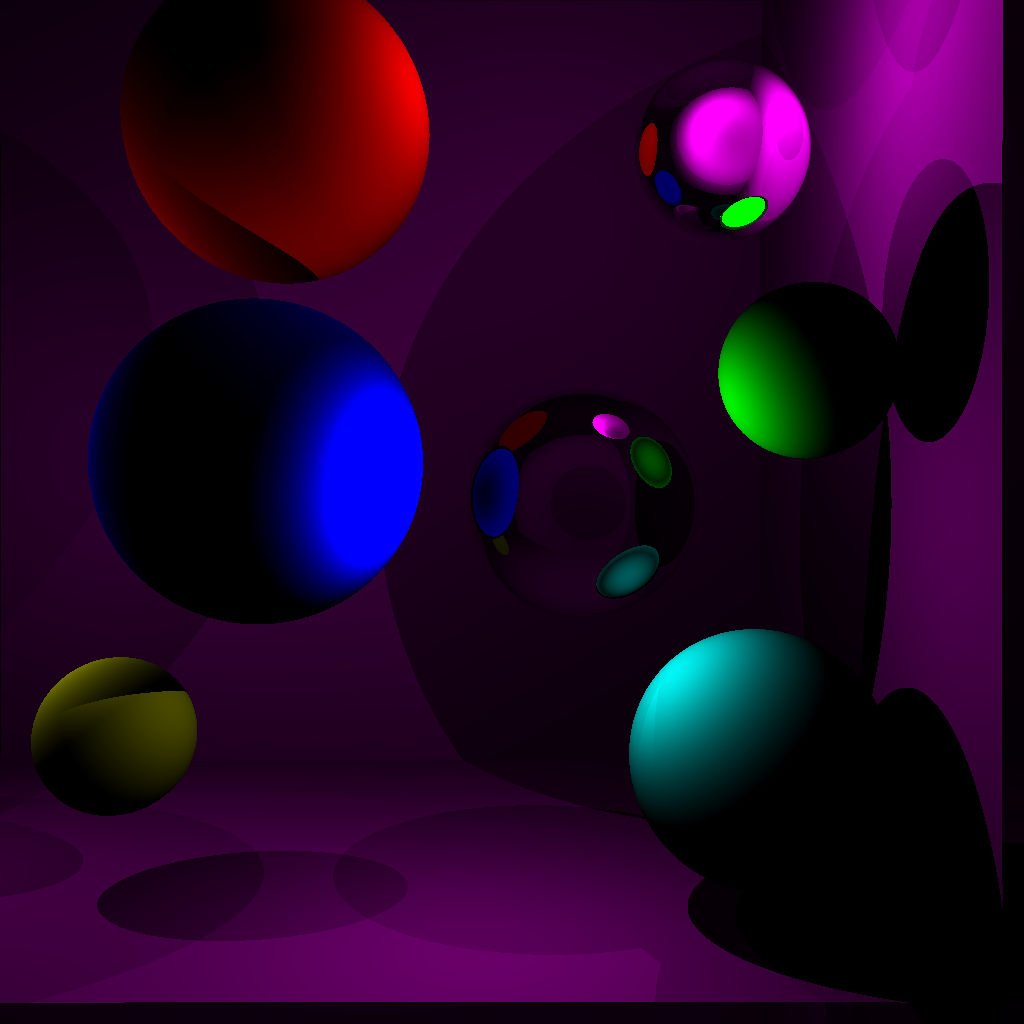
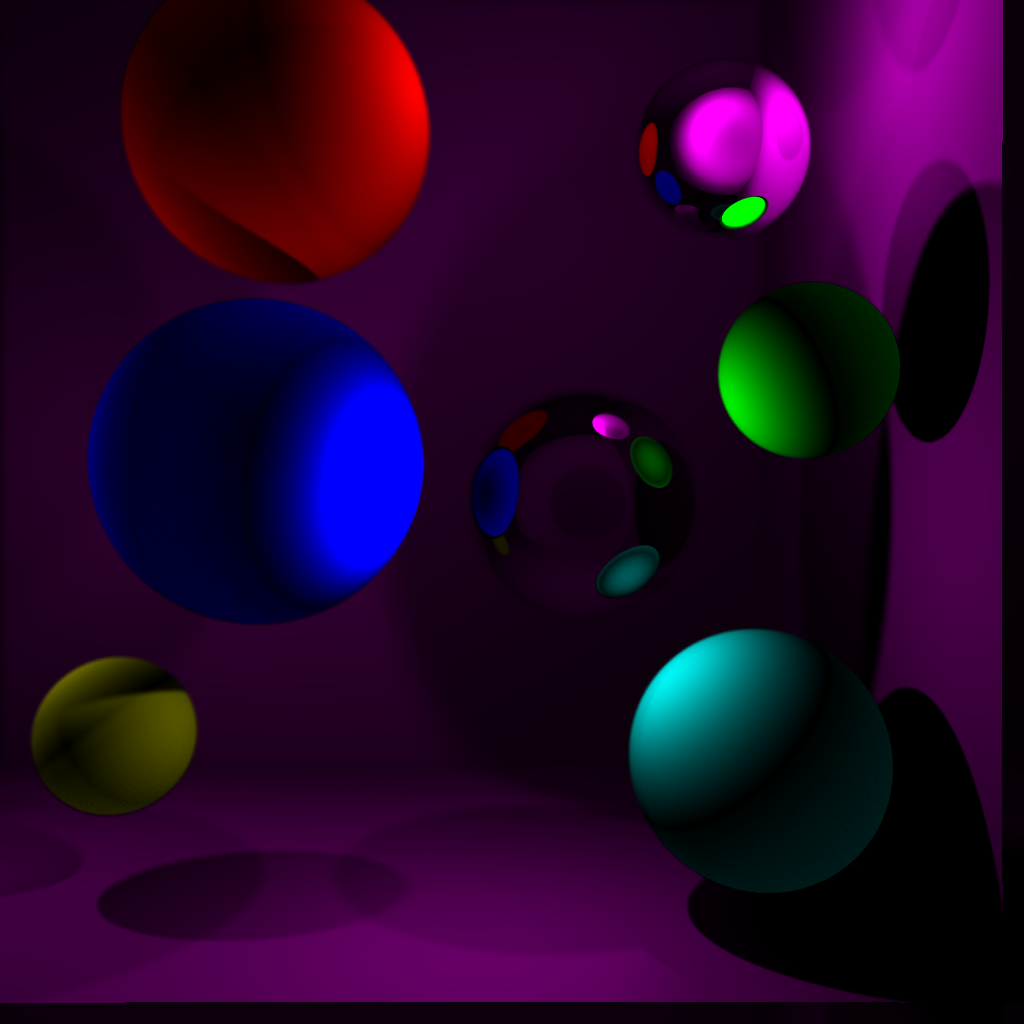
Nouvelle génération de float aléatoire
Utilisation d'uniform_real_distribution

diff --git a/SyntheseTP2/SyntheseTP2/Main.cpp b/SyntheseTP2/SyntheseTP2/Main.cpp
@@ -6,12 +6,13 @@
 #include <math.h>
 #include <iostream>
 #include <random>
-#include <ctime>
 
 #define PI 3.141593
 #define EPSILON -0.02
 
 using namespace std;
+default_random_engine gen;
+uniform_real_distribution<double> distribution(-0.01, 0.01);
 
 void encodeOneStep(const char* filename, std::vector<unsigned char>& image, unsigned width, unsigned height) {
     //Encode the image
@@ -19,6 +20,11 @@ void encodeOneStep(const char* filename, std::vector<unsigned char>& image, unsi
 
     //if there's an error, display it
     if (error) std::cout << "encoder error " << error << ": " << lodepng_error_text(error) << std::endl;
+}
+
+float randomFloat(float min, float max)
+{
+    return ((float)rand() / RAND_MAX) * (max - min) + min;
 }
 
 void normalizeColor(vector<unsigned char>* imageOut, vector<double>* image)
@@ -151,7 +157,7 @@ void intersectLamps(Vector3 intersection,vector<Lampe> lamps,vector<Sphere*> sph
     for (Lampe lampe : lamps)
     {
         lampe.SetOrigin(intersection);
-
+        lampe.SetDirection(Vector3(lampe.GetDirection().x + distribution(gen), lampe.GetDirection().y + distribution(gen), lampe.GetDirection().z + distribution(gen)));
         float distanceLampe;
         int idSphere = intersectSpheres(lampe, spheres, &distanceLampe);
         if (idSphere == -1 || distanceLampe > lampe.GetDistance())
@@ -194,23 +200,13 @@ void mirrorRebound(Vector3 intersection, Rayon rayon, vector<Lampe>* lamps, vect
         }
         else
         {
-
             intersectLamps(newIntersection, *lamps, *spheres, sphereIntersect, image, index);
-
-            /*Lampe lampe = Lampe(intersection, newIntersection, 30000000);
-            Couleur surface = colorOnSurface(lampe, spheres[sphereIntersect]);
-
-            color(image, index, surface);*/
         }
     }
     else
     {
         color(image, index, Couleur(100, 100, 100));
     }
-}
-float randomFloat(float min, float max) {
-
-    return ((float)rand() / RAND_MAX) * (max - min) + min;
 }
 
 void checkNormale(Vector3* n)
@@ -244,8 +240,6 @@ int main(int argc, char* argv[]) {
 
         for (int i = 0; i < width * height * 4; i++)
             image[i] = 0;
-
-        srand(time(NULL));
 
         Camera camera = Camera((float)width, (float)height, 1024, Vector3(0, 0, 0));
 
@@ -308,16 +302,16 @@ int main(int argc, char* argv[]) {
             for (int x = 0; x < width; x++) 
             {
                 float minDistance;
-
+                
                 Vector3 point = Vector3(camera.plan.x + x, camera.plan.y + y, camera.plan.z);
                 Vector3 normale = camera.Normale(point);
 
-                for (int i = 0; i < 3; i++)
+                for (int i = 0; i < 200; i++)
                 {
-                    Vector3 normaleRand = Vector3(normale.x + randomFloat(-0.01, 0.01), normale.y + randomFloat(-0.01, 0.01), normale.z + randomFloat(-0.01, 0.01));
+                    Vector3 normaleRand = Vector3(normale.x + distribution(gen), normale.y + distribution(gen), normale.z + distribution(gen));
                     checkNormale(&normaleRand);
-                    //Rayon rayon = Rayon(normaleRand, point);
-                    Rayon rayon = Rayon(normale, point);
+                    Rayon rayon = Rayon(normaleRand, point);
+                    //Rayon rayon = Rayon(normale, point);
                     int sphereIntersect = intersectSpheres(rayon, spheres, &minDistance);
                     if (sphereIntersect != -1)
                     {

diff --git a/SyntheseTP2/SyntheseTP2/Lampe.h b/SyntheseTP2/SyntheseTP2/Lampe.h
@@ -54,6 +54,11 @@ public:
 
 	float GetDistance() { return distance; }
 
+	void SetDirection(Vector3 _direction)
+	{
+		direction = _direction;
+	}
+
 	void SetOrigin(Vector3 _origin)
 	{
 		Vector3 _direction = position - _origin;
